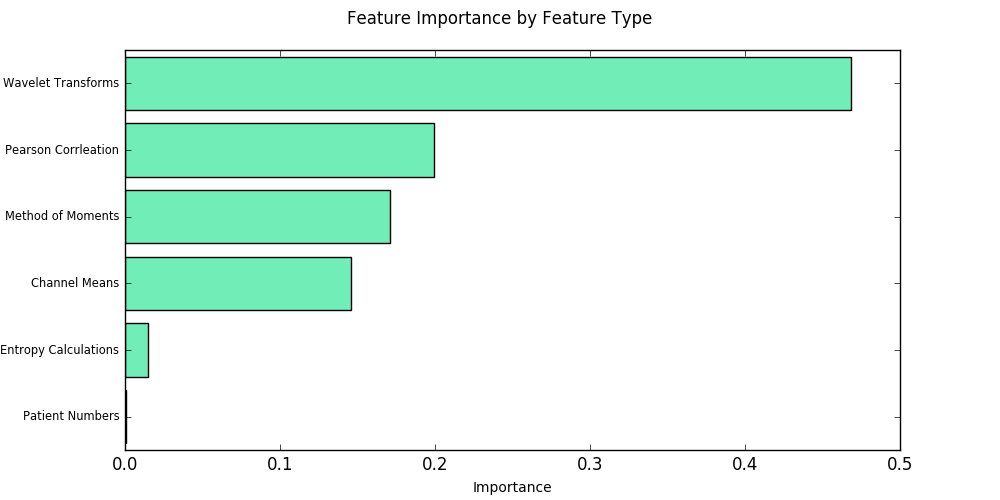
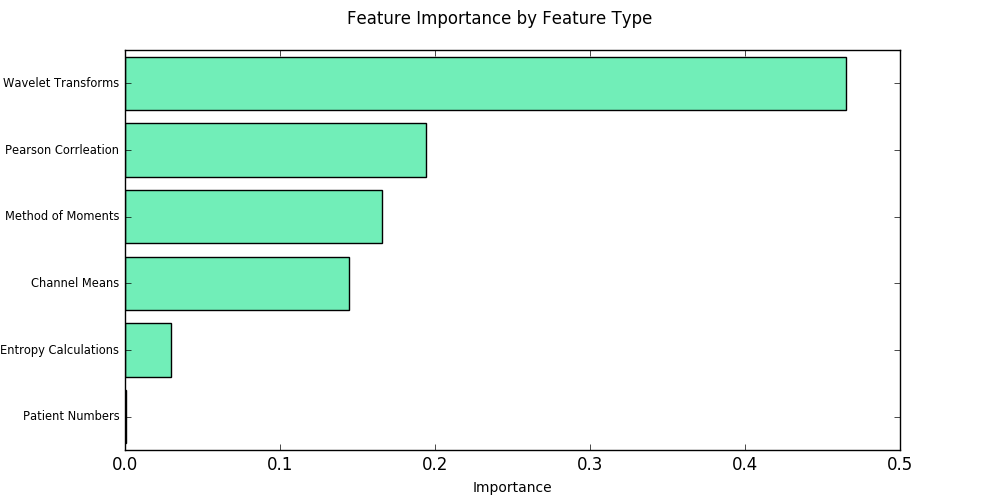
new feature importance plot

diff --git a/code/visualizations.py b/code/visualizations.py
@@ -150,41 +150,41 @@ if __name__ == '__main__':
 
     feature_importances = pd.read_csv('data/feature_importances.csv')
 
-    plot_segments(i_compiled,
-        'One Hour Interictal (Baseline) Recording',
-        'b',
-        'figures/interictal.png')
+    #plot_segments(i_compiled,
+    #    'One Hour Interictal (Baseline) Recording',
+    #    'b',
+    #    'figures/interictal.png')
 
-    plot_segments(p_compiled,
-        'One Hour Preictal (pre-seizure) Recording',
-        'r',
-        'figures/preictal.png')
+    #plot_segments(p_compiled,
+    #    'One Hour Preictal (pre-seizure) Recording',
+    #    'r',
+    #    'figures/preictal.png')
 
     plot_feature_importance(feature_importances,
         'figures/feature_importance.png')
 
-    plot_kde(i_compiled.flatten(),
-        p_compiled.flatten(),
-        'Kernel Density Plot of One Hour Recording Pre- and Interictal',
-        'figures/kde.png')
+    #plot_kde(i_compiled.flatten(),
+    #    p_compiled.flatten(),
+    #    'Kernel Density Plot of One Hour Recording Pre- and Interictal',
+    #    'figures/kde.png')
 
     #plot_channel_kde(i_compiled,
     #    p_compiled,
     #    'Kernel Density Plots by Channel Pre- and Interictal',
     #    'figures/kde2.png')
 
-    wavelet_spectrogram(i_compiled,
-        'Interictal Wavelet Spectrogram from Channel 16',
-        'figures/spectrogram_i.png')
+    #wavelet_spectrogram(i_compiled,
+    #    'Interictal Wavelet Spectrogram from Channel 16',
+    #    'figures/spectrogram_i.png')
 
-    wavelet_spectrogram(p_compiled,
-        'Preictal Wavelet Spectrogram from Channel 16',
-        'figures/spectrogram_p.png')
+   # wavelet_spectrogram(p_compiled,
+   #     'Preictal Wavelet Spectrogram from Channel 16',
+   #     'figures/spectrogram_p.png')
 
-    plot_correlations(i_compiled,
-        'Interictal Channel Coorelations',
-        'figures/coorelations_i.png')
+   # plot_correlations(i_compiled,
+   #     'Interictal Channel Coorelations',
+   #     'figures/coorelations_i.png')
 
-    plot_correlations(p_compiled,
-        'Precital Channel Coorelations',
-        'figures/coorelations_p.png')
+   # plot_correlations(p_compiled,
+   #     'Precital Channel Coorelations',
+   #     'figures/coorelations_p.png')

diff --git a/code/model.py b/code/model.py
@@ -81,7 +81,7 @@ class Models(object):
                train_test_split(np.array(self.data),
                self.y,
                test_size=0.3,
-               random_state=123)
+               random_state=124)
         print '-------- Train/Test Split Complete --------'
 
 
@@ -349,20 +349,20 @@ def import_data(separate=False):
     INPUT: separate - Boolean, whether to return concatenated or separate data frames
     OUTPUT: combined training and test sets
     '''
-    a_df = pd.read_csv('data/a_reduced17.csv')
-    b_df = pd.read_csv('data/b_reduced17.csv')
-    c_df = pd.read_csv('data/c_reduced17.csv')
+    a_df = pd.read_csv('data/a_reduced18.csv')
+    b_df = pd.read_csv('data/b_reduced18.csv')
+    c_df = pd.read_csv('data/c_reduced18.csv')
 
     a_df = a_df[a_df['819'] == False].drop(['817', '818', '819'], axis=1)
     b_df = b_df[b_df['819'] == False].drop(['817', '818', '819'], axis=1)
     c_df = c_df[c_df['819'] == False].drop(['817', '818', '819'], axis=1)
 
-    a_test = pd.read_csv('data/a_test_reduced16.csv').sort_values(by='818')\
-        .drop('818', axis=1)
-    b_test = pd.read_csv('data/b_test_reduced16.csv').sort_values(by='818')\
-        .drop('818', axis=1)
-    c_test = pd.read_csv('data/c_test_reduced16.csv').sort_values(by='818')\
-        .drop('818', axis=1)
+    a_test = pd.read_csv('data/a_test_reduced18.csv').sort_values(by='817')\
+        .drop('817', axis=1)
+    b_test = pd.read_csv('data/b_test_reduced18.csv').sort_values(by='817')\
+        .drop('817', axis=1)
+    c_test = pd.read_csv('data/c_test_reduced18.csv').sort_values(by='817')\
+        .drop('817', axis=1)
 
     if separate:
         return a_df, b_df, c_df, np.array(a_test), np.array(b_test),\
